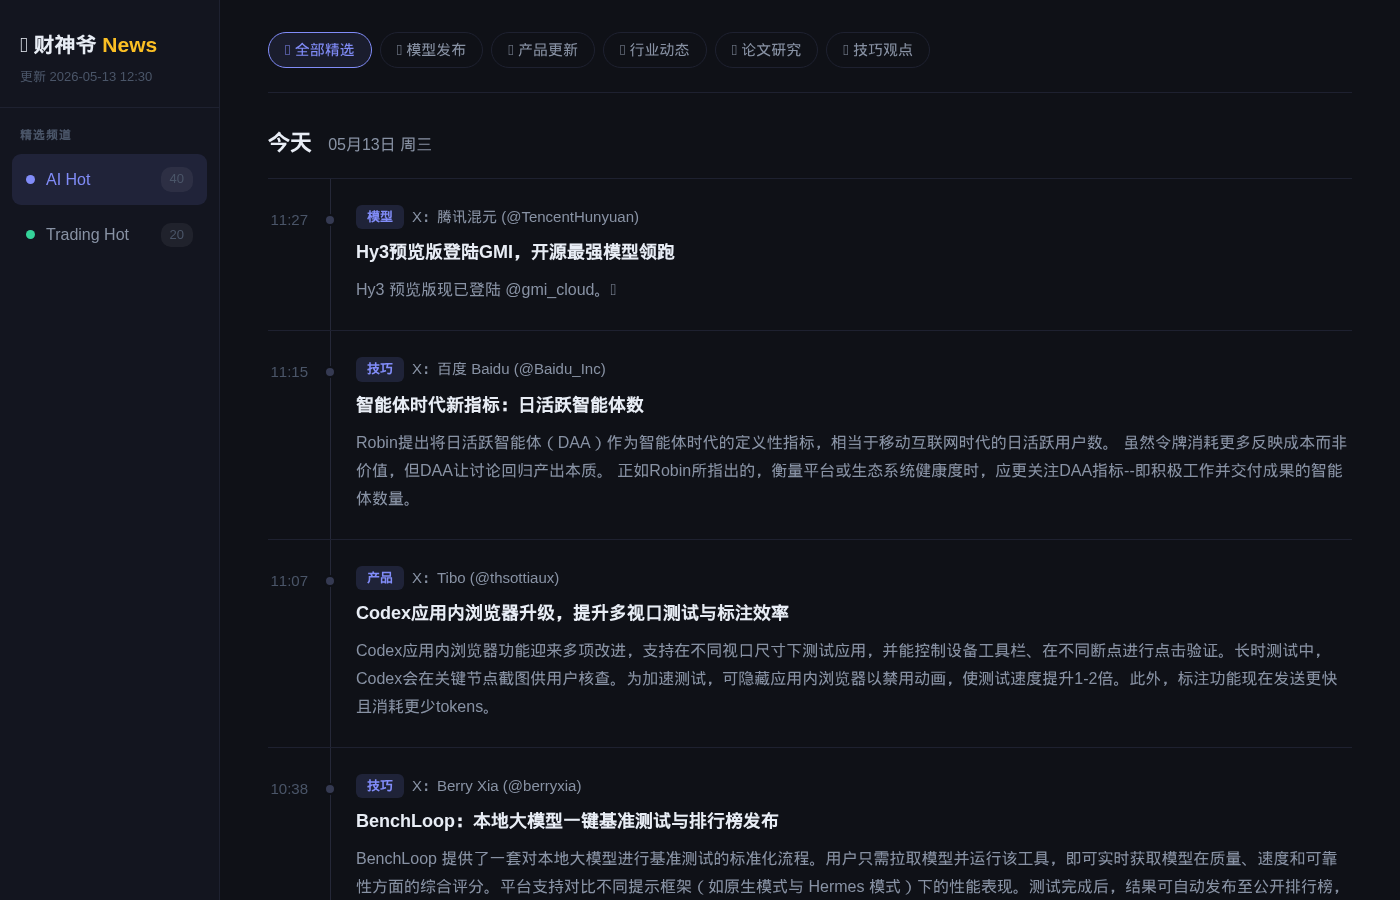
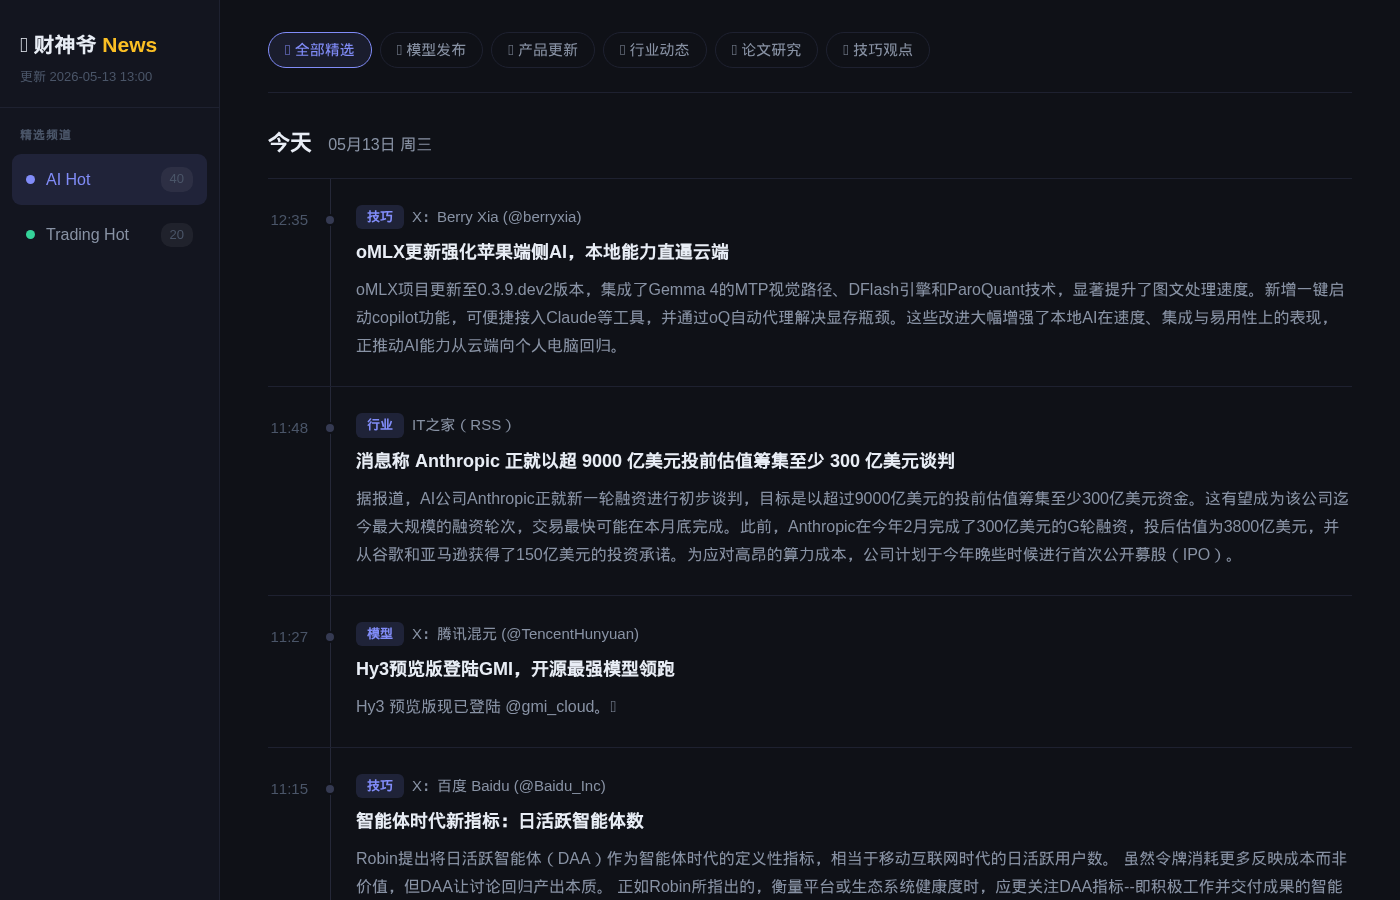
auto update 2026-05-13 13:00

Changed region(s): [[0.1843, 0.2178, 0.9521, 0.8089], [0.2457, 0.8711, 0.9521, 0.9956]]

diff --git a/index.html b/index.html
@@ -106,7 +106,7 @@ body{font-family:-apple-system,BlinkMacSystemFont,"Segoe UI","PingFang SC","Micr
 <body>
 <aside class="sb">
   <div class="sb-logo">💰 财神爷 <span>News</span>
-    <div class="sb-up">更新 2026-05-13 12:30</div>
+    <div class="sb-up">更新 2026-05-13 13:00</div>
   </div>
   <nav class="sb-nav">
     <div class="nav-lbl">精选频道</div>
@@ -124,6 +124,24 @@ body{font-family:-apple-system,BlinkMacSystemFont,"Segoe UI","PingFang SC","Micr
         <div class="dgroup">
       <div class="dheader">今天 <span class='dsub'>05月13日 周三</span></div>
       <div class="ilist">
+      <div class="item" data-cats="tip">
+        <div class="item-time">12:35</div>
+        <div class="item-body">
+          <div class="item-meta"><span class="badge badge-ai">技巧</span><span class="isrc">X：Berry Xia (@berryxia)</span></div>
+          <a class="item-title" href="https://x.com/berryxia/status/2054420138095694324" target="_blank" rel="noopener">oMLX更新强化苹果端侧AI，本地能力直逼云端</a>
+          <div class="item-summary">oMLX项目更新至0.3.9.dev2版本，集成了Gemma 4的MTP视觉路径、DFlash引擎和ParoQuant技术，显著提升了图文处理速度。新增一键启动copilot功能，可便捷接入Claude等工具，并通过oQ自动代理解决显存瓶颈。这些改进大幅增强了本地AI在速度、集成与易用性上的表现，正推动AI能力从云端向个人电脑回归。</div>
+        </div>
+      </div>
+
+      <div class="item" data-cats="industry">
+        <div class="item-time">11:48</div>
+        <div class="item-body">
+          <div class="item-meta"><span class="badge badge-ai">行业</span><span class="isrc">IT之家（RSS）</span></div>
+          <a class="item-title" href="https://www.ithome.com/0/949/715.htm" target="_blank" rel="noopener">消息称 Anthropic 正就以超 9000 亿美元投前估值筹集至少 300 亿美元谈判</a>
+          <div class="item-summary">据报道，AI公司Anthropic正就新一轮融资进行初步谈判，目标是以超过9000亿美元的投前估值筹集至少300亿美元资金。这有望成为该公司迄今最大规模的融资轮次，交易最快可能在本月底完成。此前，Anthropic在今年2月完成了300亿美元的G轮融资，投后估值为3800亿美元，并从谷歌和亚马逊获得了150亿美元的投资承诺。为应对高昂的算力成本，公司计划于今年晚些时候进行首次公开募股（IPO）。</div>
+        </div>
+      </div>
+
       <div class="item" data-cats="ai-models">
         <div class="item-time">11:27</div>
         <div class="item-body">
@@ -510,24 +528,6 @@ https：//x.com/browser_use/status/2054330495249564094/video/1</div>
           <div class="item-summary">网络安全机构Socket发现针对npm生态的大规模供应链攻击&quot;Mini Shai-Hulud&quot;。攻击者组合利用GitHub Actions的三种漏洞，绕过了双重身份验证等保护机制，向TanStack、Mistral AI、UiPath等知名项目的软件包中植入恶意版本。被篡改的包在安装时会自动执行恶意代码，窃取AWS、GCP、Kubernetes、GitHub令牌及SSH私钥等敏感凭证。此次攻击波及超过160个包名、近373个恶意版本，目前所有恶意版本已被清理。</div>
         </div>
       </div>
-
-      <div class="item" data-cats="tip">
-        <div class="item-time">11:08</div>
-        <div class="item-body">
-          <div class="item-meta"><span class="badge badge-ai">技巧</span><span class="isrc">X：硅基流动 SiliconFlow (@SiliconFlowAI)</span></div>
-          <a class="item-title" href="https://x.com/SiliconFlowAI/status/2054035848866504953" target="_blank" rel="noopener">答案之外：信息呈现方式正成为AI智能层的一部分</a>
-          <div class="item-summary">信息的结构与呈现方式本身正成为AI智能层的关键。当前，让大语言模型以HTML格式输出，能提供比默认Markdown更丰富的视觉布局与交互性，是值得尝试的技巧。长远来看，人类虽偏好用音频输入，但视觉（图像/动画/视频）才是更理想的AI输出形式，因为大脑约三分之一皮层专司视觉处理。AI输出形态将沿&quot;原始文本→Markdown→HTML→交互式神经视频/模拟&quot;的路径演进，最终可能由扩散神经网络直接生成交互视频。同时，输入方式也需融合音频、文本、视频及手势等多模态交互。在人机输入输出</div>
-        </div>
-      </div>
-
-      <div class="item" data-cats="ai-models">
-        <div class="item-time">10:19</div>
-        <div class="item-body">
-          <div class="item-meta"><span class="badge badge-ai">模型</span><span class="isrc">X：歸藏 (@op7418)</span></div>
-          <a class="item-title" href="https://x.com/op7418/status/2054023602874491326" target="_blank" rel="noopener">Thinking Machines发布原生多模态&quot;交互模型&quot;，实现实时人机协作</a>
-          <div class="item-summary">前OpenAI CTO Mira创立的Thinking Machines公司发布了一种创新的&quot;交互模型&quot;。该模型能原生、持续地接收音频、视频和文本等多模态输入，并实时思考与响应，而非通过Agent串联多个独立模型。其架构分为两部分：前台交互模型以200毫秒为节点处理输入并维持用户&quot;在场感&quot;，支持随时打断；后台推理模型则处理长程规划、工具调用等复杂任务。两者协同工作，最终呈现为一个既能实时交互又能处理重度任务的统一界面。</div>
-        </div>
-      </div>
       </div>
     </div>
   </div>
@@ -536,7 +536,7 @@ https：//x.com/browser_use/status/2054330495249564094/video/1</div>
         <div class="dgroup">
       <div class="dheader">今天 <span class='dsub'>05月13日 周三</span></div>
       <div class="ilist">
-      <div class="item" data-cats="top crypto">
+      <div class="item" data-cats="crypto top">
         <div class="item-time">04:56</div>
         <div class="item-body">
           <div class="item-meta"><span class="badge badge-trading">加密</span><span class="score-badge">72分</span><span class="isrc">The Block</span><span class="ticker">$C</span><span class="ticker">$COIN</span></div>
@@ -546,7 +546,7 @@ https：//x.com/browser_use/status/2054330495249564094/video/1</div>
         </div>
       </div>
 
-      <div class="item" data-cats="top macro">
+      <div class="item" data-cats="macro top">
         <div class="item-time">04:55</div>
         <div class="item-body">
           <div class="item-meta"><span class="badge badge-trading">宏观利率</span><span class="score-badge">77分</span><span class="isrc">华尔街见闻</span></div>
@@ -556,7 +556,7 @@ https：//x.com/browser_use/status/2054330495249564094/video/1</div>
         </div>
       </div>
 
-      <div class="item" data-cats="top ai_tech crypto">
+      <div class="item" data-cats="crypto top ai_tech">
         <div class="item-time">04:46</div>
         <div class="item-body">
           <div class="item-meta"><span class="badge badge-trading">加密</span><span class="score-badge">68分</span><span class="isrc">Decrypt</span><span class="ticker">$F</span></div>
@@ -596,7 +596,7 @@ https：//x.com/browser_use/status/2054330495249564094/video/1</div>
         </div>
       </div>
 
-      <div class="item" data-cats="top geo">
+      <div class="item" data-cats="geo top">
         <div class="item-time">04:14</div>
         <div class="item-body">
           <div class="item-meta"><span class="badge badge-trading">市场异动</span><span class="score-badge">67分</span><span class="isrc">华尔街见闻</span></div>
@@ -606,7 +606,7 @@ https：//x.com/browser_use/status/2054330495249564094/video/1</div>
         </div>
       </div>
 
-      <div class="item" data-cats="top ai_tech crypto">
+      <div class="item" data-cats="crypto top ai_tech">
         <div class="item-time">03:45</div>
         <div class="item-body">
           <div class="item-meta"><span class="badge badge-trading">加密</span><span class="score-badge">69分</span><span class="isrc">Decrypt</span><span class="ticker">$BTC</span><span class="ticker">$MARA</span></div>
@@ -626,7 +626,7 @@ https：//x.com/browser_use/status/2054330495249564094/video/1</div>
         </div>
       </div>
 
-      <div class="item" data-cats="top geo">
+      <div class="item" data-cats="geo top">
         <div class="item-time">02:43</div>
         <div class="item-body">
           <div class="item-meta"><span class="badge badge-trading">市场异动</span><span class="score-badge">72分</span><span class="isrc">CNBC Top News</span><span class="ticker">$C</span></div>
@@ -646,7 +646,7 @@ https：//x.com/browser_use/status/2054330495249564094/video/1</div>
         </div>
       </div>
 
-      <div class="item" data-cats="top geo">
+      <div class="item" data-cats="geo top">
         <div class="item-time">02:11</div>
         <div class="item-body">
           <div class="item-meta"><span class="badge badge-trading">市场异动</span><span class="score-badge">72分</span><span class="isrc">CNBC Top News</span><span class="ticker">$C</span></div>
@@ -656,7 +656,7 @@ https：//x.com/browser_use/status/2054330495249564094/video/1</div>
         </div>
       </div>
 
-      <div class="item" data-cats="top geo macro">
+      <div class="item" data-cats="macro geo top">
         <div class="item-time">02:10</div>
         <div class="item-body">
           <div class="item-meta"><span class="badge badge-trading">市场异动</span><span class="score-badge">72分</span><span class="isrc">CNBC Top News</span><span class="ticker">$C</span></div>
@@ -676,7 +676,7 @@ https：//x.com/browser_use/status/2054330495249564094/video/1</div>
         </div>
       </div>
 
-      <div class="item" data-cats="top macro">
+      <div class="item" data-cats="macro top">
         <div class="item-time">01:33</div>
         <div class="item-body">
           <div class="item-meta"><span class="badge badge-trading">宏观利率</span><span class="score-badge">71分</span><span class="isrc">CNBC Markets</span><span class="ticker">$F</span></div>
@@ -696,7 +696,7 @@ https：//x.com/browser_use/status/2054330495249564094/video/1</div>
         </div>
       </div>
 
-      <div class="item" data-cats="top macro">
+      <div class="item" data-cats="macro top">
         <div class="item-time">00:38</div>
         <div class="item-body">
           <div class="item-meta"><span class="badge badge-trading">市场异动</span><span class="score-badge">67分</span><span class="isrc">CNBC Top News</span><span class="ticker">$C</span><span class="ticker">$F</span></div>
@@ -720,7 +720,7 @@ https：//x.com/browser_use/status/2054330495249564094/video/1</div>
         </div>
       </div>
 
-      <div class="item" data-cats="top crypto">
+      <div class="item" data-cats="crypto top">
         <div class="item-time">22:37</div>
         <div class="item-body">
           <div class="item-meta"><span class="badge badge-trading">加密</span><span class="score-badge">70分</span><span class="isrc">Decrypt</span><span class="ticker">$C</span></div>
@@ -730,7 +730,7 @@ https：//x.com/browser_use/status/2054330495249564094/video/1</div>
         </div>
       </div>
 
-      <div class="item" data-cats="top crypto">
+      <div class="item" data-cats="crypto top">
         <div class="item-time">19:55</div>
         <div class="item-body">
           <div class="item-meta"><span class="badge badge-trading">加密</span><span class="score-badge">75分</span><span class="isrc">Decrypt</span><span class="ticker">$C</span></div>
